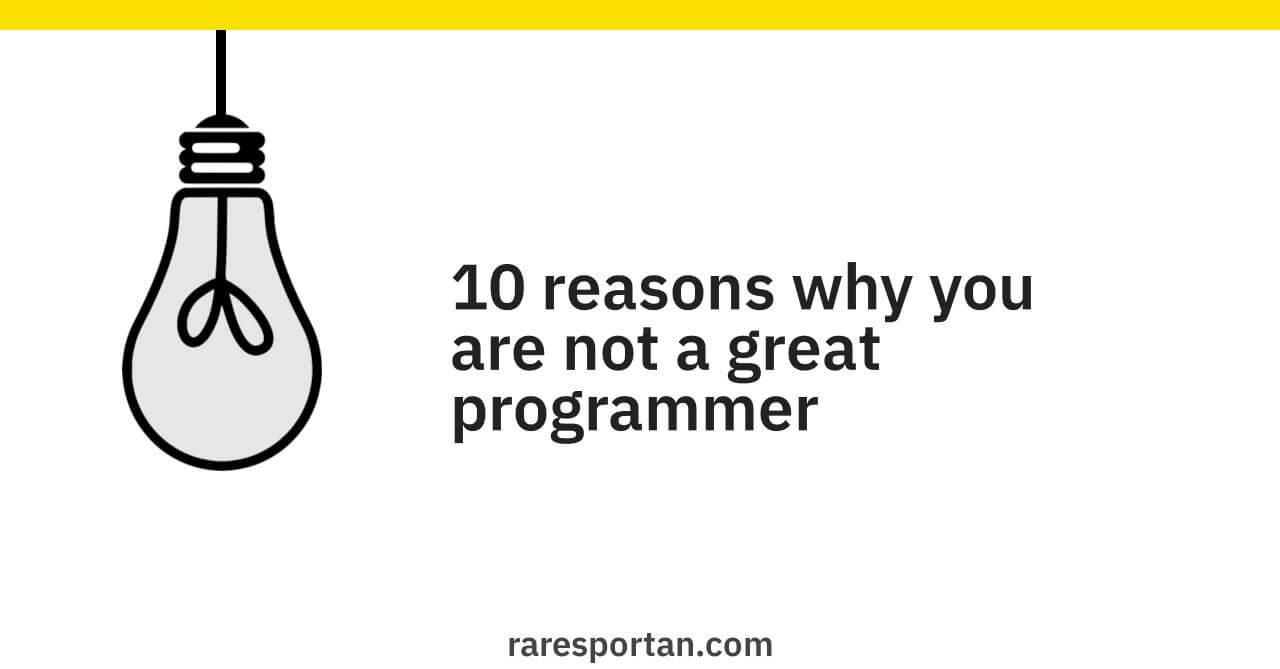
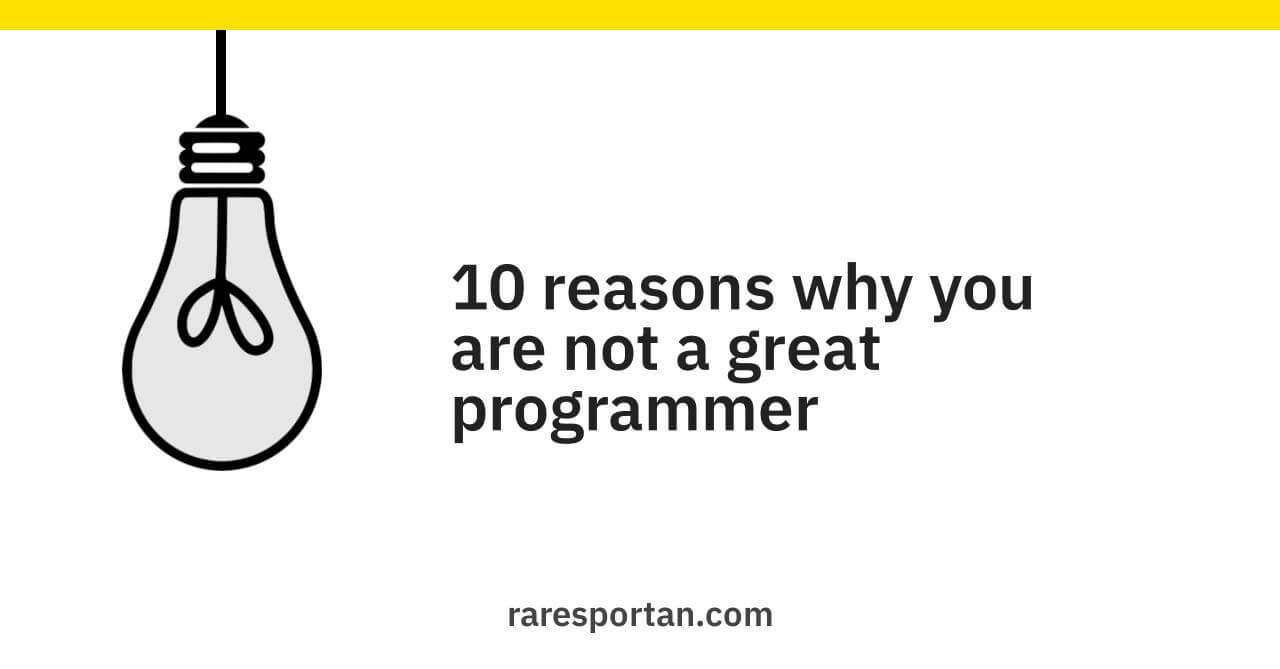
Image updates

Changed region(s): [[0.375, 0.8969, 0.625, 0.9865]]

diff --git a/gatsby-config.js b/gatsby-config.js
@@ -82,7 +82,7 @@ module.exports = {
                   text: 'raresportan.com',
                   font: '26pt "IBM Plex Sans"',
                   x: 'center',
-                  y: 669 - 36,
+                  y: 669 - 66,
                   color: '#444',
                 }
               ],
